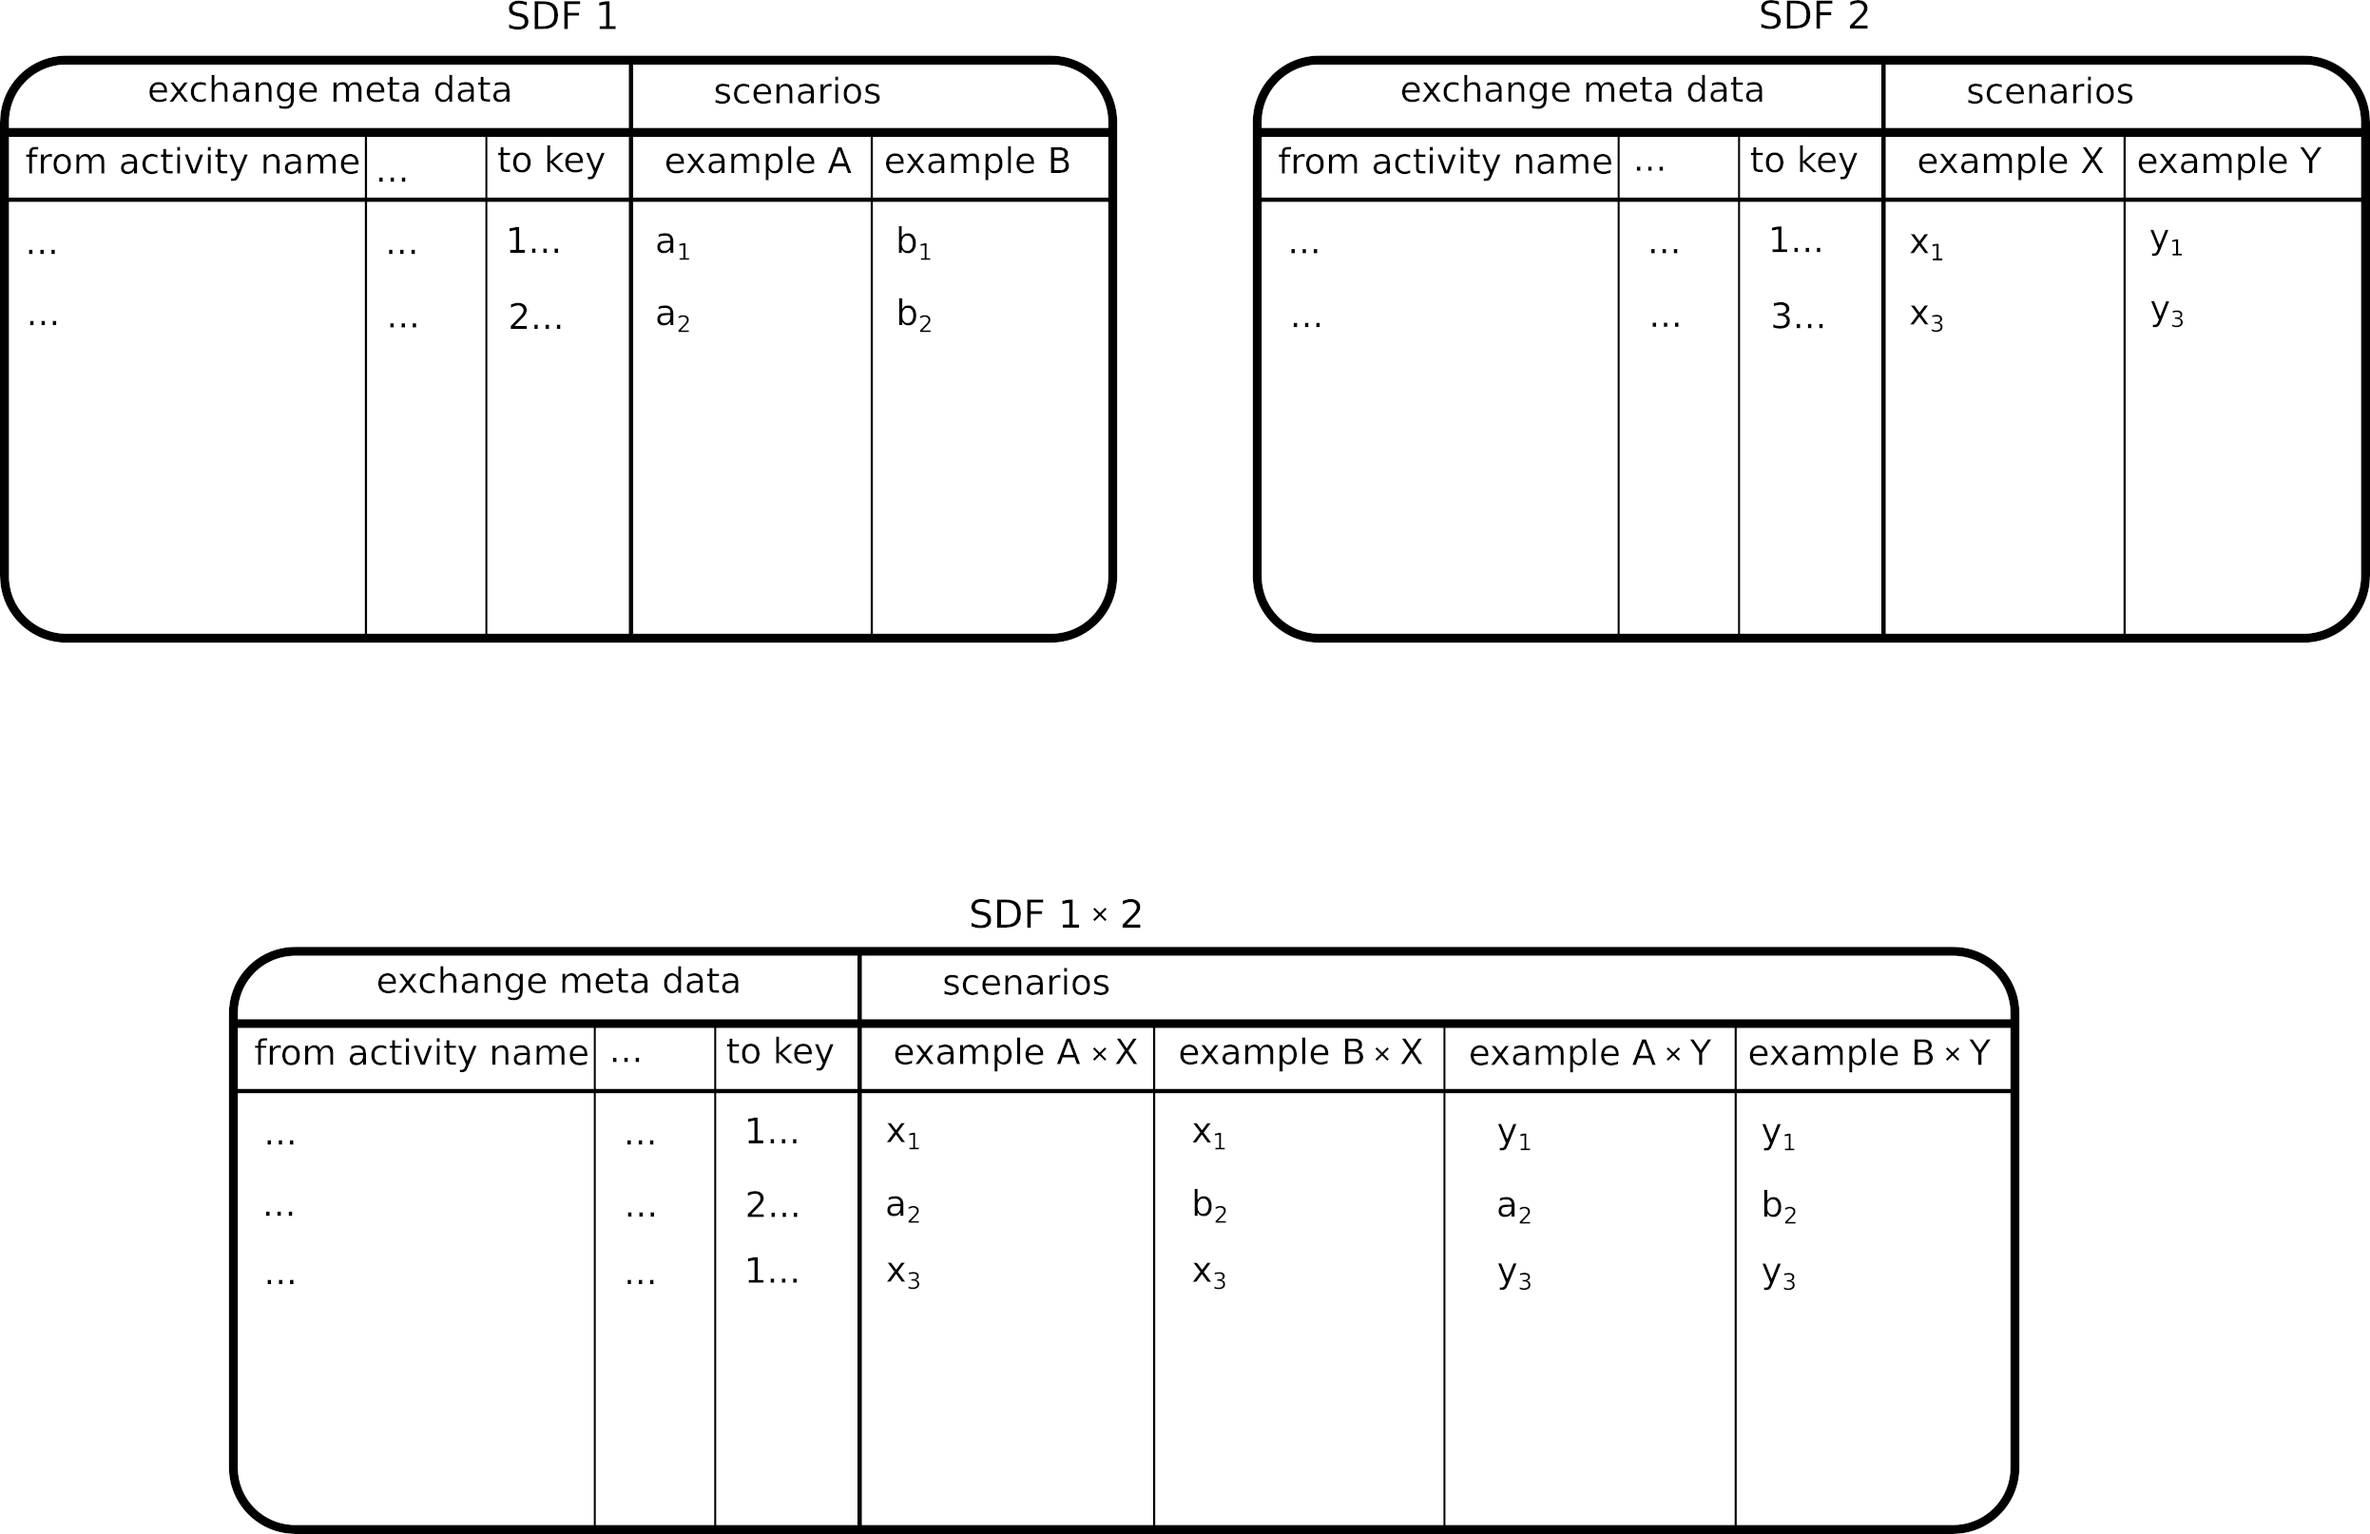
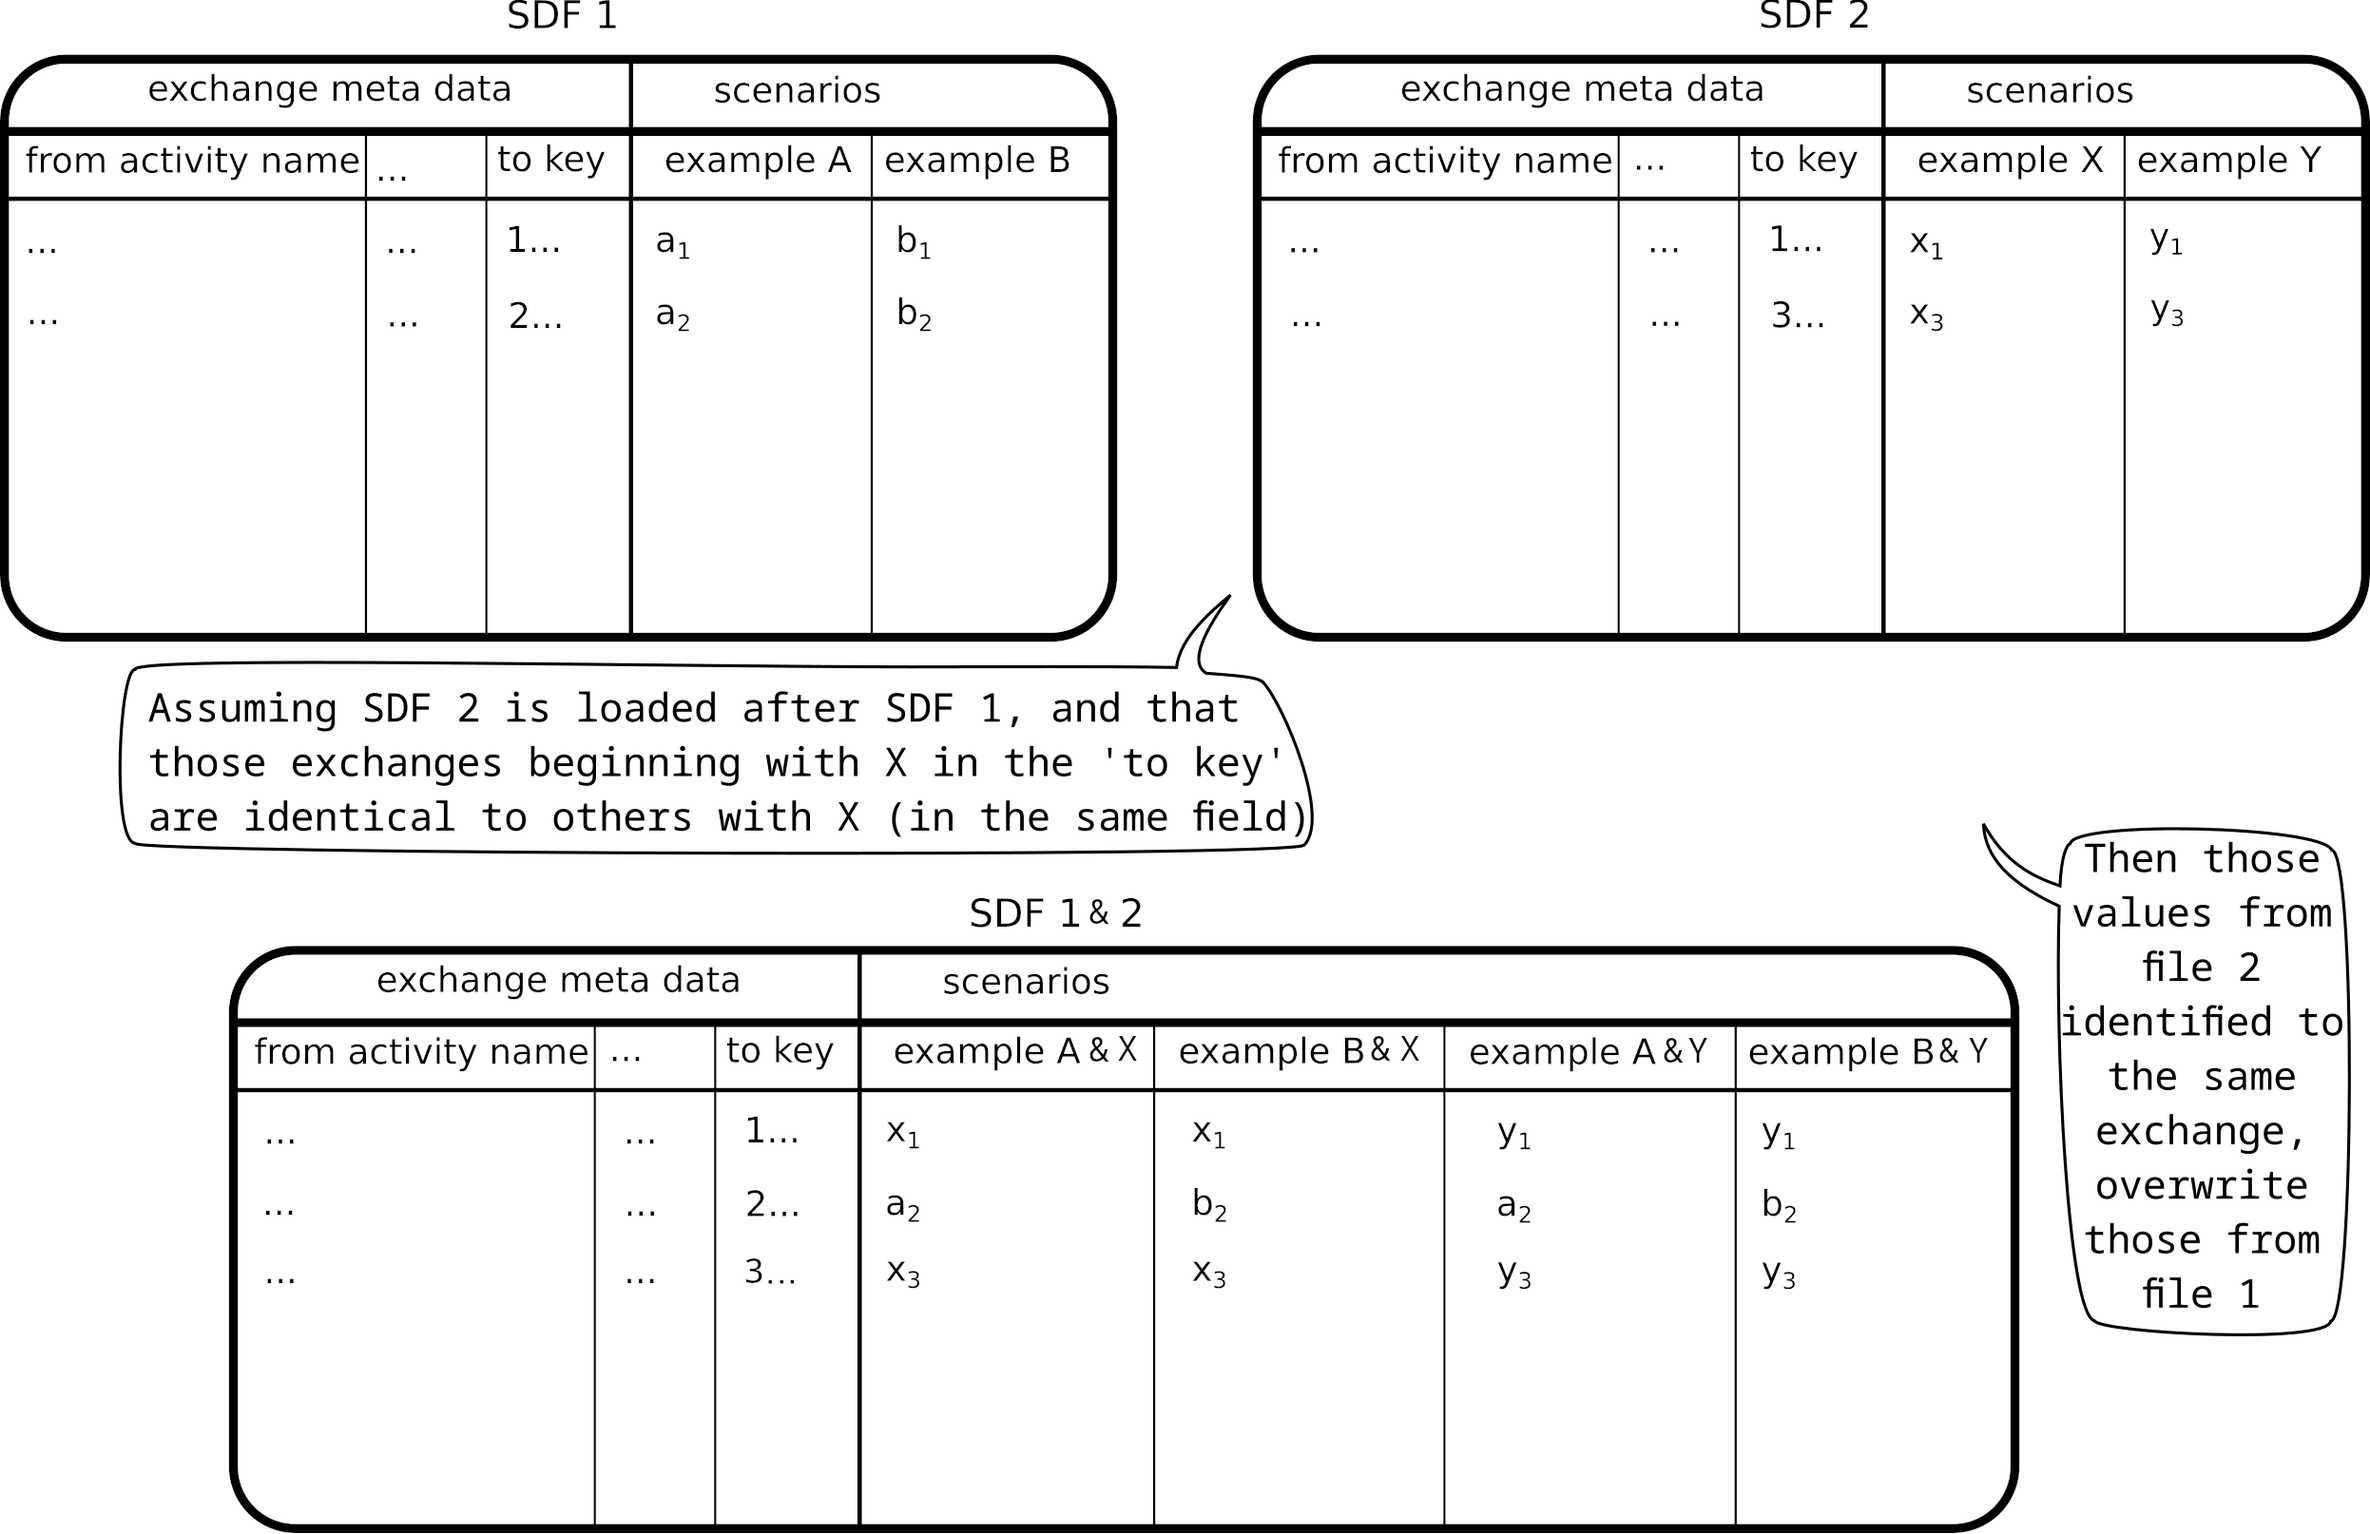
Scenario fix (#970)
* Corrections to importing scenarios. This involves the removal of one check of the duplicates, due to the "location" of its execution. The main commit here addresses an issue related to problems with connecting the processes in the scenario exchange with the locally held databases. This test is currently performed at the calculation stage, this will be moved (soon) to the import stage. 

* Corrections are also made to links in the scenario help window.

* Updates to the illustrations including comments to better illustrate the rules used for combining scenario difference files.

diff --git a/activity_browser/bwutils/superstructure/mlca.py b/activity_browser/bwutils/superstructure/mlca.py
@@ -1,5 +1,6 @@
 # -*- coding: utf-8 -*-
 from typing import Iterable, Optional
+from PySide2.QtWidgets import QMessageBox
 
 from bw2calc.matrices import TechnosphereBiosphereMatrixBuilder as MB
 import numpy as np
@@ -8,6 +9,9 @@ import pandas as pd
 from ..commontasks import format_activity_label
 from ..multilca import MLCA, Contributions
 from ..utils import Index
+from .utils import _time_it_
+from .file_imports import ABPopup
+from ..errors import ScenarioExchangeError
 from .dataframe import (
     scenario_names_from_df, arrays_from_indexed_superstructure,
     filter_databases_indexed_superstructure
@@ -42,6 +46,20 @@ class SuperstructureMLCA(MLCA):
         # biosphere_dict ('rows') while the 'output' keys are matched
         # to the activity_dict ('cols').
 
+        errors = self.indices_check()
+        if errors:
+            errors_df = pd.DataFrame(errors, index=None, columns=['from key', 'to key', 'flow type'])
+            error_message = ABPopup()
+            error_message.dataframe(errors_df, errors_df.columns)
+            msg = """<p>Some exchanges in the scenario difference file could not be found in the local databases. For the calculation to proceed all exchanges in the scenario file <b>must</b> be linkable to the local database(s).</p>
+
+            <p>The exchanges that could not be found in the local databases can be saved to a file, these can then be corrected (checked) in your original SDF(s), which should then be ready for importing.</p>
+            """
+            response = error_message.abCritical("Scenario exchanges not found", msg, QMessageBox.Save)
+            if response == error_message.Save:
+                error_message.save_dataframe(errors)
+            raise ScenarioExchangeError()
+
         # Side-note on presamples: Presamples was used in AB for calculating scenarios,
         # presamples was superseded by this implementation. For more reading:
         # https://presamples.readthedocs.io/en/latest/use_with_bw2.html
@@ -74,6 +92,20 @@ class SuperstructureMLCA(MLCA):
         """ Ensure current index is looped to 0 if end of array is reached.
         """
         self._current_index = current if current < self.total else 0
+
+    @_time_it_
+    def indices_check(self) -> list:
+        """ Check the indices of the scenario dataframe against the processes in the dataframes for the BW databases"""
+        errors = []
+        for idx in self.indices:
+            in_dict = self.lca.biosphere_dict if idx.flow_type == "biosphere" else self.lca.product_dict
+            i = in_dict.get(idx.input, idx.input)
+            j = self.lca.activity_dict.get(idx.output, idx.output)
+            if not isinstance(i, int):
+                errors.append((idx.input, idx.output, idx.flow_type))
+            if not isinstance(j, int):
+                errors.append((idx.input, idx.output, idx.flow_type))
+        return errors
 
     def next_scenario(self):
         self.update_matrices()

diff --git a/activity_browser/layouts/tabs/LCA_setup.py b/activity_browser/layouts/tabs/LCA_setup.py
@@ -278,11 +278,11 @@ class ScenarioImportPanel(BaseRightTab):
         <br> <p> You can also work with <b>multiple scenario files</b> for which there are with two options:</p>
         <p>1. <b>Combine scenarios</b>: this yields all possible scenario combinations 
         (e.g. file 1: <i>S1, S2</i> and file 2: <i>A, B</i> yields <i>S1-A, S1-B, S2-A, S2-B</i>) 
-        Click <a href="https://github.com/LCA-ActivityBrowser/activity-browser/resources/sdf_product_combination.png"> here </a>
+        Click <a href="https://github.com/LCA-ActivityBrowser/activity-browser/blob/master/resources/sdf_product_combination.png"> here </a>
         for an example</p>
         <p>2. <b>Extend scenarios</b>: scenarios from file 2 extend scenarios of file 1 
         (only possible if scenario names are identical in all files, e.g. everywhere <i>S1, S2</i>).
-        Click <a href="https://github.com/LCA-ActivityBrowser/activity-browser/resources/sdf_addtion_combinations.png"> here
+        Click <a href="https://github.com/LCA-ActivityBrowser/activity-browser/blob/master/resources/sdf_addtion_combinations.png"> here
         </a> for an example</p> 
         """
 
@@ -491,6 +491,8 @@ class ScenarioImportWidget(QtWidgets.QWidget):
                         include_default = False
                 signals.parameter_scenario_sync.emit(self.index, df, include_default)
             finally:
+                # TODO Move the scenario exchanges check with the local databases here and keep all the scenario
+                # TODO checks within the scenario import procedures
                 self.scenario_name.setText(path.name)
                 self.scenario_name.setToolTip(path.name)
                 QtWidgets.QApplication.restoreOverrideCursor()

diff --git a/activity_browser/layouts/tabs/LCA_results_tab.py b/activity_browser/layouts/tabs/LCA_results_tab.py
@@ -3,11 +3,12 @@ import traceback
 
 from bw2calc.errors import BW2CalcError
 from PySide2.QtCore import Qt, Slot
-from PySide2.QtWidgets import QMessageBox, QVBoxLayout
+from PySide2.QtWidgets import QMessageBox, QVBoxLayout, QApplication
 
 from .LCA_results_tabs import LCAResultsSubTab
 from ..panels import ABTab
 from ...signals import signals
+from ...bwutils.errors import ABError
 
 
 class LCAResultsTab(ABTab):
@@ -69,3 +70,6 @@ class LCAResultsTab(ABTab):
             if other:
                 msg.setDetailedText("\n".join(other))
             msg.exec_()
+        except ABError as e:
+            QApplication.restoreOverrideCursor()
+

diff --git a/activity_browser/bwutils/errors.py b/activity_browser/bwutils/errors.py
@@ -39,6 +39,12 @@ class ExchangeErrorValues(ABError):
     pass
 
 
+class ScenarioExchangeError(ABError):
+    """In the AB we require the exchanges from the scenario file to be mappable to the databases. If this is not the
+        case we MUST throw an error."""
+    pass
+
+
 class ReferenceFlowValueError(ABWarning):
     """While a user can technically perform a calculation with the reference flows all set to 0, such a calculation
      makes no logical sense and will lead to downstream errors (due to 0 results)."""

diff --git a/activity_browser/bwutils/superstructure/manager.py b/activity_browser/bwutils/superstructure/manager.py
@@ -58,8 +58,8 @@ class SuperstructureManager(object):
             df = SuperstructureManager.addition_combine_frames(
                 self.frames, combo_idx, cols
             )
-            if check_duplicates is not None:
-                df = check_duplicates(df)
+#            if check_duplicates is not None:
+#                df = check_duplicates(df)
         else:
             df = pd.DataFrame([], index=combo_idx)
 

diff --git a/activity_browser/bwutils/commontasks.py b/activity_browser/bwutils/commontasks.py
@@ -100,7 +100,6 @@ def switch_brightway2_dir(dirpath):
         )
         print('Loaded brightway2 data directory: {}'.format(bw.projects._base_data_dir))
         return True
-
     except AssertionError:
         print('Could not access BW_DIR as specified in settings.py')
         return False
